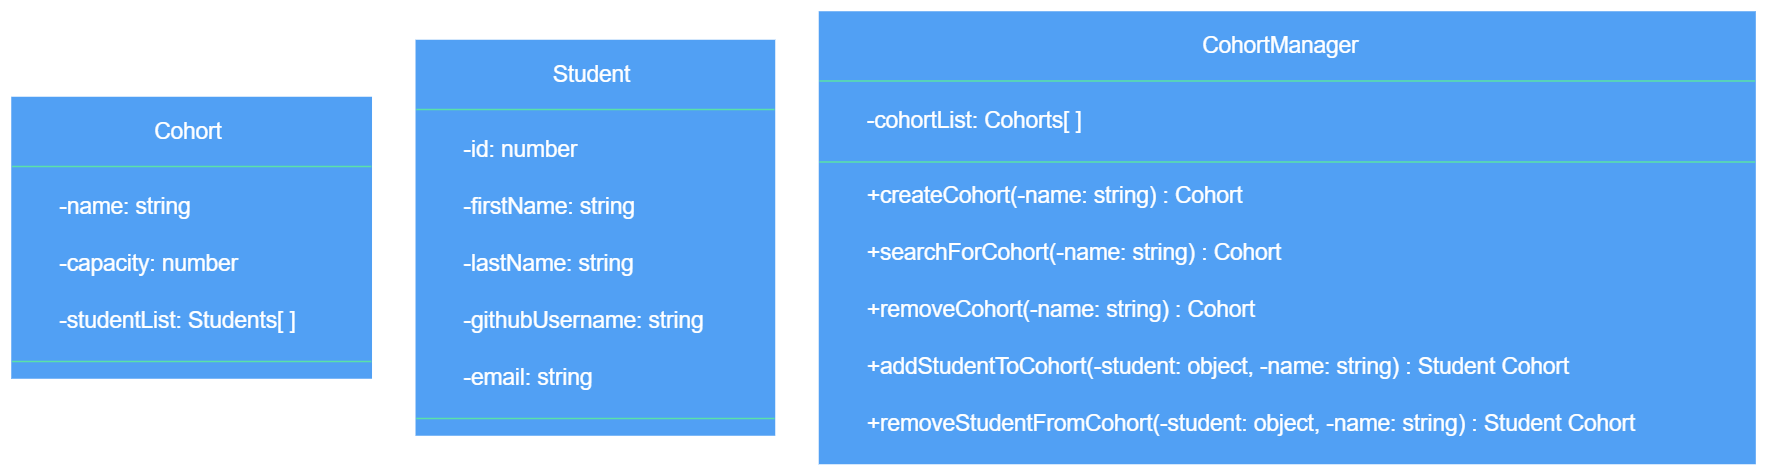
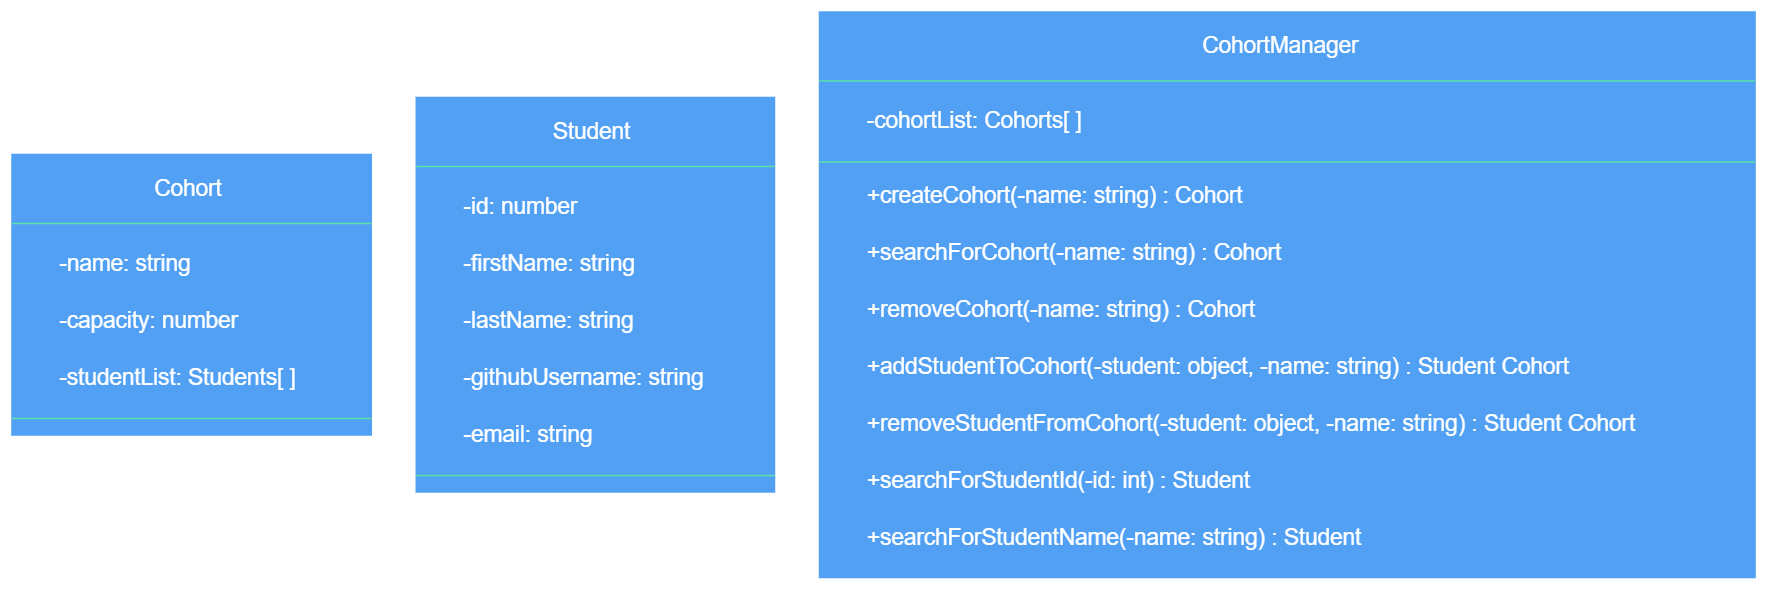
added first and second test of extensions, and implemented source code. ClassDiagram and DomainModel updated.

diff --git a/spec/CohortManagerExtended.spec.js b/spec/CohortManagerExtended.spec.js
@@ -1,8 +1,8 @@
 const CohortManager = require('../src/CohortManager.js')
 
 /*
-- Search for student by student ID
-- Cohorts have fixed capacity at 24 students. Adding students is not possible beyond the 24 limit.
+- Search for student by student ID - DONE
+- Cohorts have fixed capacity at 24 students. Adding students is not possible beyond the 24 limit. - DONE
 - Cohorts can't have the same name, and can't exist without a name
 - The same student can't exist in multiple cohorts.
 - A student can't be removed from a cohort if it wasn't present in the first place.
@@ -15,8 +15,43 @@ describe('CohortManager Class', () => {
     Manager = new CohortManager()
   })
 
-  it('Search for student by student ID', () => {})
-  it('Not accept more than 24 students in a cohort', () => {})
+  it('Search for student by student ID', () => {
+    Manager.createCohort('Cohort 7')
+    const newStudent = Manager.createStudent(
+      'Nathan',
+      'King',
+      'vherus',
+      'GRRMfan123@gmail.com'
+    )
+    Manager.addStudentToCohort(newStudent, 'Cohort 7')
+    const wrongStudentId = 2
+    expect(Manager.searchForStudentId(1)).toEqual(newStudent)
+    expect(() => Manager.searchForStudentId(wrongStudentId)).toThrow(
+      new Error('no match found')
+    )
+  })
+
+  it('Not accept more than 24 students in a cohort', () => {
+    Manager.createCohort('Cohort 7')
+    for (let i = 1; i <= 24; i++) {
+      const newStudent = Manager.createStudent(
+        'Nathan',
+        'King',
+        `vherus ${i}`,
+        'GRRMfan123@gmail.com'
+      )
+      Manager.addStudentToCohort(newStudent, 'Cohort 7')
+    }
+    const twentyFifthStudent = Manager.createStudent(
+      'Nathan',
+      'King',
+      `vherus 25`,
+      'GRRMfan123@gmail.com'
+    )
+    expect(() =>
+      Manager.addStudentToCohort(twentyFifthStudent, 'Cohort 7')
+    ).toThrow(new Error('cohort is full'))
+  })
   it('Cohorts must have a name, and can not be a duplicate', () => {})
   it('Students can not be in multiple cohorts', () => {})
   it('Students can not be removed from cohorts they are not in', () => {})

diff --git a/src/CohortManager.js b/src/CohortManager.js
@@ -58,6 +58,11 @@ class CohortManager {
 
     const indexOfCohortToAddStudentTo =
       this.cohortList.indexOf(cohortToAddStudentTo)
+    if (
+      this.cohortList[indexOfCohortToAddStudentTo].studentList.length === 24
+    ) {
+      throw new Error('cohort is full')
+    }
     this.cohortList[indexOfCohortToAddStudentTo].studentList.push(student)
     return `${student.firstName} added to ${cohortToAddStudentTo.name} successfully`
   }
@@ -88,6 +93,22 @@ class CohortManager {
     return `${studentToRemoveFromCohort.firstName} removed from ${this.cohortList[indexOfCohortToRemoveStudentFrom].name} successfully`
   }
 
+  searchForStudentId(id) {
+    this.#checkType(id, 'number', `must search for a student id`)
+    let foundStudent
+    for (let i = 0; i < this.cohortList.length; i++) {
+      for (let j = 0; j < this.cohortList[i].studentList.length; j++) {
+        if (this.cohortList[i].studentList[j].id === id) {
+          foundStudent = this.cohortList[i].studentList[j]
+        }
+      }
+    }
+    if (foundStudent) {
+      return foundStudent
+    }
+    throw new Error('no match found')
+  }
+
   #findCohort(searchQuery) {
     return this.cohortList.find((cohort) =>
       cohort.name.toLowerCase().includes(searchQuery)
@@ -116,5 +137,7 @@ class CohortManager {
     )
   }
 }
+
+const testManager = new CohortManager()
 
 module.exports = CohortManager

diff --git a/DomainModel.md b/DomainModel.md
@@ -13,4 +13,9 @@
 |                         |                                 | user adds Patrik to non defined cohort                                                      | error (cohort not found)                            |
 |                         |                                 | user adds 'Patrik' as a string to Cohort 7                                                  | error (student must be a object)                    |
 | removeStudentFromCohort | (student(obj), cohortName(str)) | user removes Patrik from Cohort 7                                                           | Patrik removed from Cohort 7 successfully removed'  |
-|                         |                                 | Patrik doesn't exist in Cohort 7                                                            | error (no match found)                      |
+|                         |                                 | Patrik doesn't exist in Cohort 7                                                            | error (student does not exist)                      |
+| Extensions:             |                                 |                                                                                             |                                                     |
+| searchForStudentId      | integer                         | user searches for the student with id '1' which exists in a cohort                          | Object {id: 1, firstName: ... etc}                  |
+|                         |                                 | user searches for the student with id '2' which does not exist                              | error (no match found)                              |
+| searchForStudentName    | string                          | user searches for the student with name 'Patrik' which exists in a cohort                   | Object {id: 1, firstName: ... etc}                  |
+|                         |                                 | user searches for the student with name 'John' which does not exist                         | error (no match found)                              |
